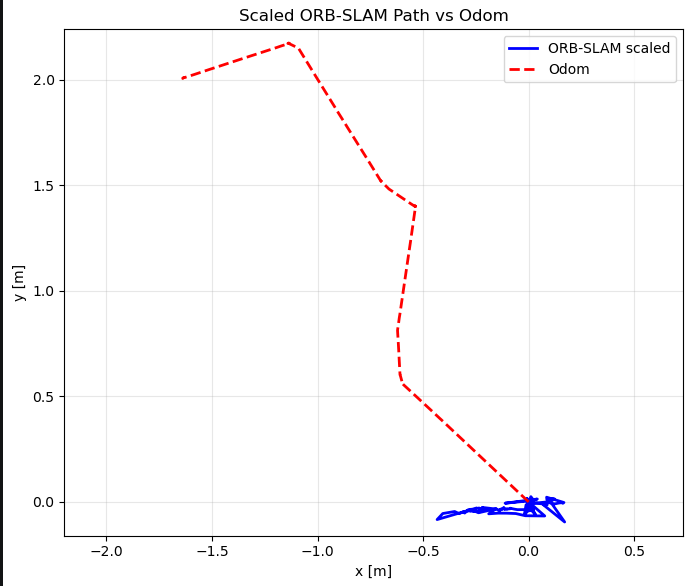
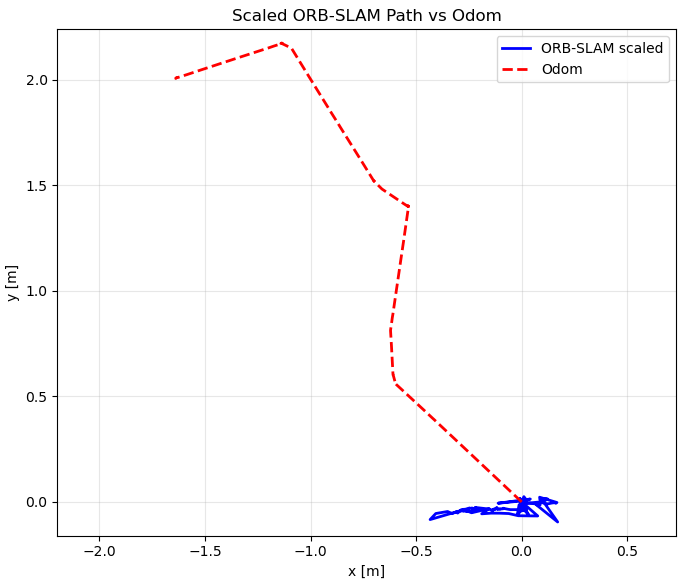
Fixed Typo again

diff --git a/project/report2.md b/project/report2.md
@@ -61,7 +61,7 @@ The state variables represent the robot's 2D pose in the planning frame. The mod
 Specify the control inputs used by the robot and how they correspond to commanded motion.
 
 $$
-\mathbf{u} = \begin{bmatrix} v \\ \omega \end{bmatrix}
+\mathbf{u} = [v,\ \omega]^\top
 $$
 
 where $v$ is the commanded linear velocity (m/s) and $\omega$ is the commanded angular velocity (rad/s).
@@ -173,7 +173,7 @@ flowchart LR
 
 **Explanation:** Figure 2.1 provides a runtime view of the ROS 2 system, complementing the conceptual architecture shown in the Mermaid diagram. The figure highlights the distinction between streaming perception topics and service-based decision modules.
 
-The perception nodes detect the target object (box or cylinder) using point cloud processing techniques introduced in class. The object pose \((x, y, \text{yaw})\) is estimated using PCA and then transformed into the `odom` frame by the pose estimator node. These pose estimates are continuously streamed and consumed by the orchestrator node.
+The perception nodes detect the target object (box or cylinder) using point cloud processing techniques introduced in class. The object pose $(x, y, \text{yaw})$ is estimated using PCA and then transformed into the `odom` frame by the pose estimator node. These pose estimates are continuously streamed and consumed by the orchestrator node.
 
 The orchestrator aggregates a short history of pose estimates and calls the `confidence_evaluator` service to compute a confidence score and determine whether an additional viewpoint is required. If the confidence exceeds the desired threshold, the process terminates. Otherwise, the orchestrator calls the `nbv_planner` service, which computes the next best view in the `odom` frame.
 
@@ -233,7 +233,7 @@ The `confidence_evaluator` node is implemented as a service rather than a stream
 
 ### nbv_planner
 
-The `nbv_planner` selects the next-best-view using a **discrete candidate evaluation strategy**. Given the current target pose and robot pose in the planning frame, it samples \(N\) candidate viewpoints uniformly on a circle around the object:
+The `nbv_planner` selects the next-best-view using a **discrete candidate evaluation strategy**. Given the current target pose and robot pose in the planning frame, it samples $N$ candidate viewpoints uniformly on a circle around the object:
 
 $$
 \begin{aligned}
@@ -398,26 +398,21 @@ Key fields in the EKF YAML are:
 
 So the ORB YAML controls how VO is produced, and the EKF YAML controls how VO and wheel odometry are fused.
 
-The VO measurement is aligned to the EKF world frame (`odom`) before fusion:
+The VO measurement is aligned to the EKF world frame (`odom`) before fusion. Let $o=\text{odom}$, $v=\text{vo}$, $c=\text{camera}$, and $b=\text{base\_link}$.
 
 $$
-\begin{aligned}
-\mathbf{T}_{\text{vo}\rightarrow \text{base\_link}}(t)
-&=
-\mathbf{T}_{\text{vo}\rightarrow \text{camera}}(t)\,
-\mathbf{T}_{\text{camera}\rightarrow \text{base\_link}}, \\
-\mathbf{T}_{\text{odom}\rightarrow \text{vo}}
-&=
-\mathbf{T}_{\text{odom}\rightarrow \text{base\_link}}(t_0)\,
-\mathbf{T}_{\text{vo}\rightarrow \text{base\_link}}(t_0)^{-1}, \\
-\mathbf{T}_{\text{odom}\rightarrow \text{base\_link}}^{\text{(VO)}}(t)
-&=
-\mathbf{T}_{\text{odom}\rightarrow \text{vo}}\,
-\mathbf{T}_{\text{vo}\rightarrow \text{base\_link}}(t).
-\end{aligned}
+\mathbf{T}_{v\rightarrow b}(t)=\mathbf{T}_{v\rightarrow c}(t)\,\mathbf{T}_{c\rightarrow b}
 $$
 
-The EKF update then uses $\mathbf{T}_{o\rightarrow b}^{(\mathrm{VO})}(t)$ (where $o$ is `odom` and $b$ is `base_link`) and wheel odometry in the same `odom` frame.
+$$
+\mathbf{T}_{o\rightarrow v}=\mathbf{T}_{o\rightarrow b}(t_0)\,\mathbf{T}_{v\rightarrow b}(t_0)^{-1}
+$$
+
+$$
+\mathbf{T}_{o\rightarrow b}^{(\mathrm{VO})}(t)=\mathbf{T}_{o\rightarrow v}\,\mathbf{T}_{v\rightarrow b}(t)
+$$
+
+The EKF update then uses $\mathbf{T}_{o\rightarrow b}^{(\mathrm{VO})}(t)$ and wheel odometry in the same `odom` frame.
 
 ### custom interfaces
 
